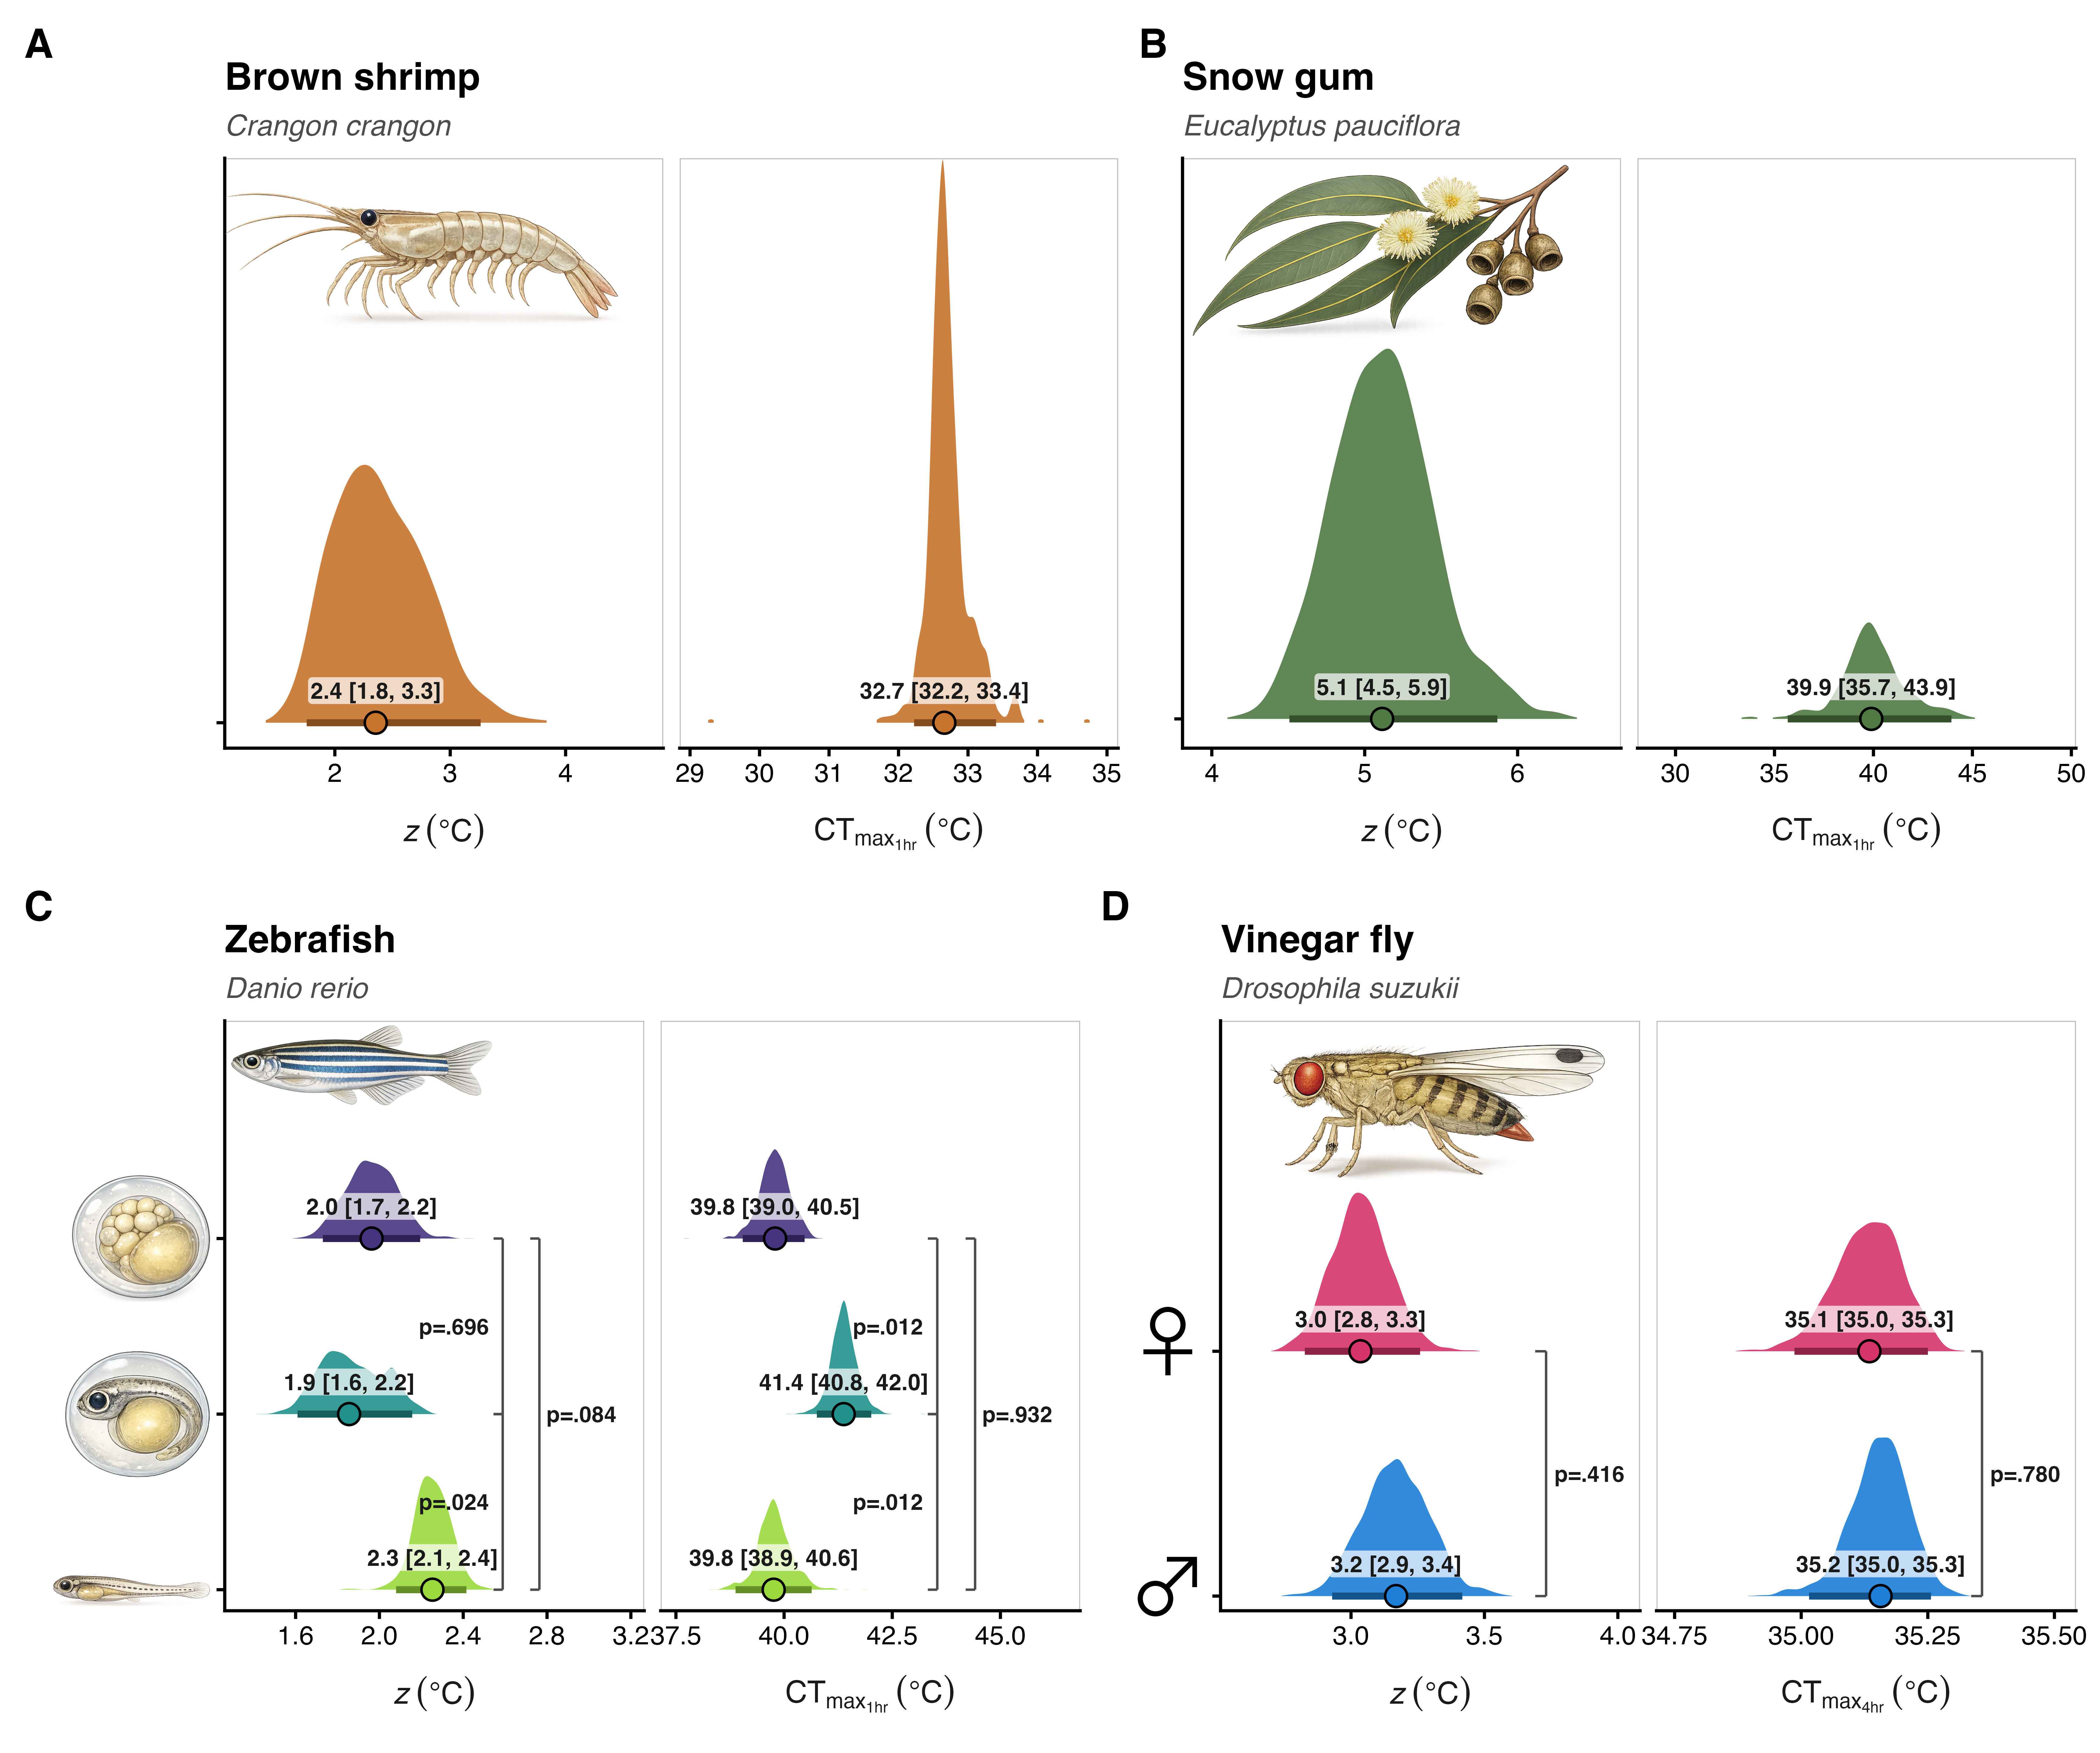
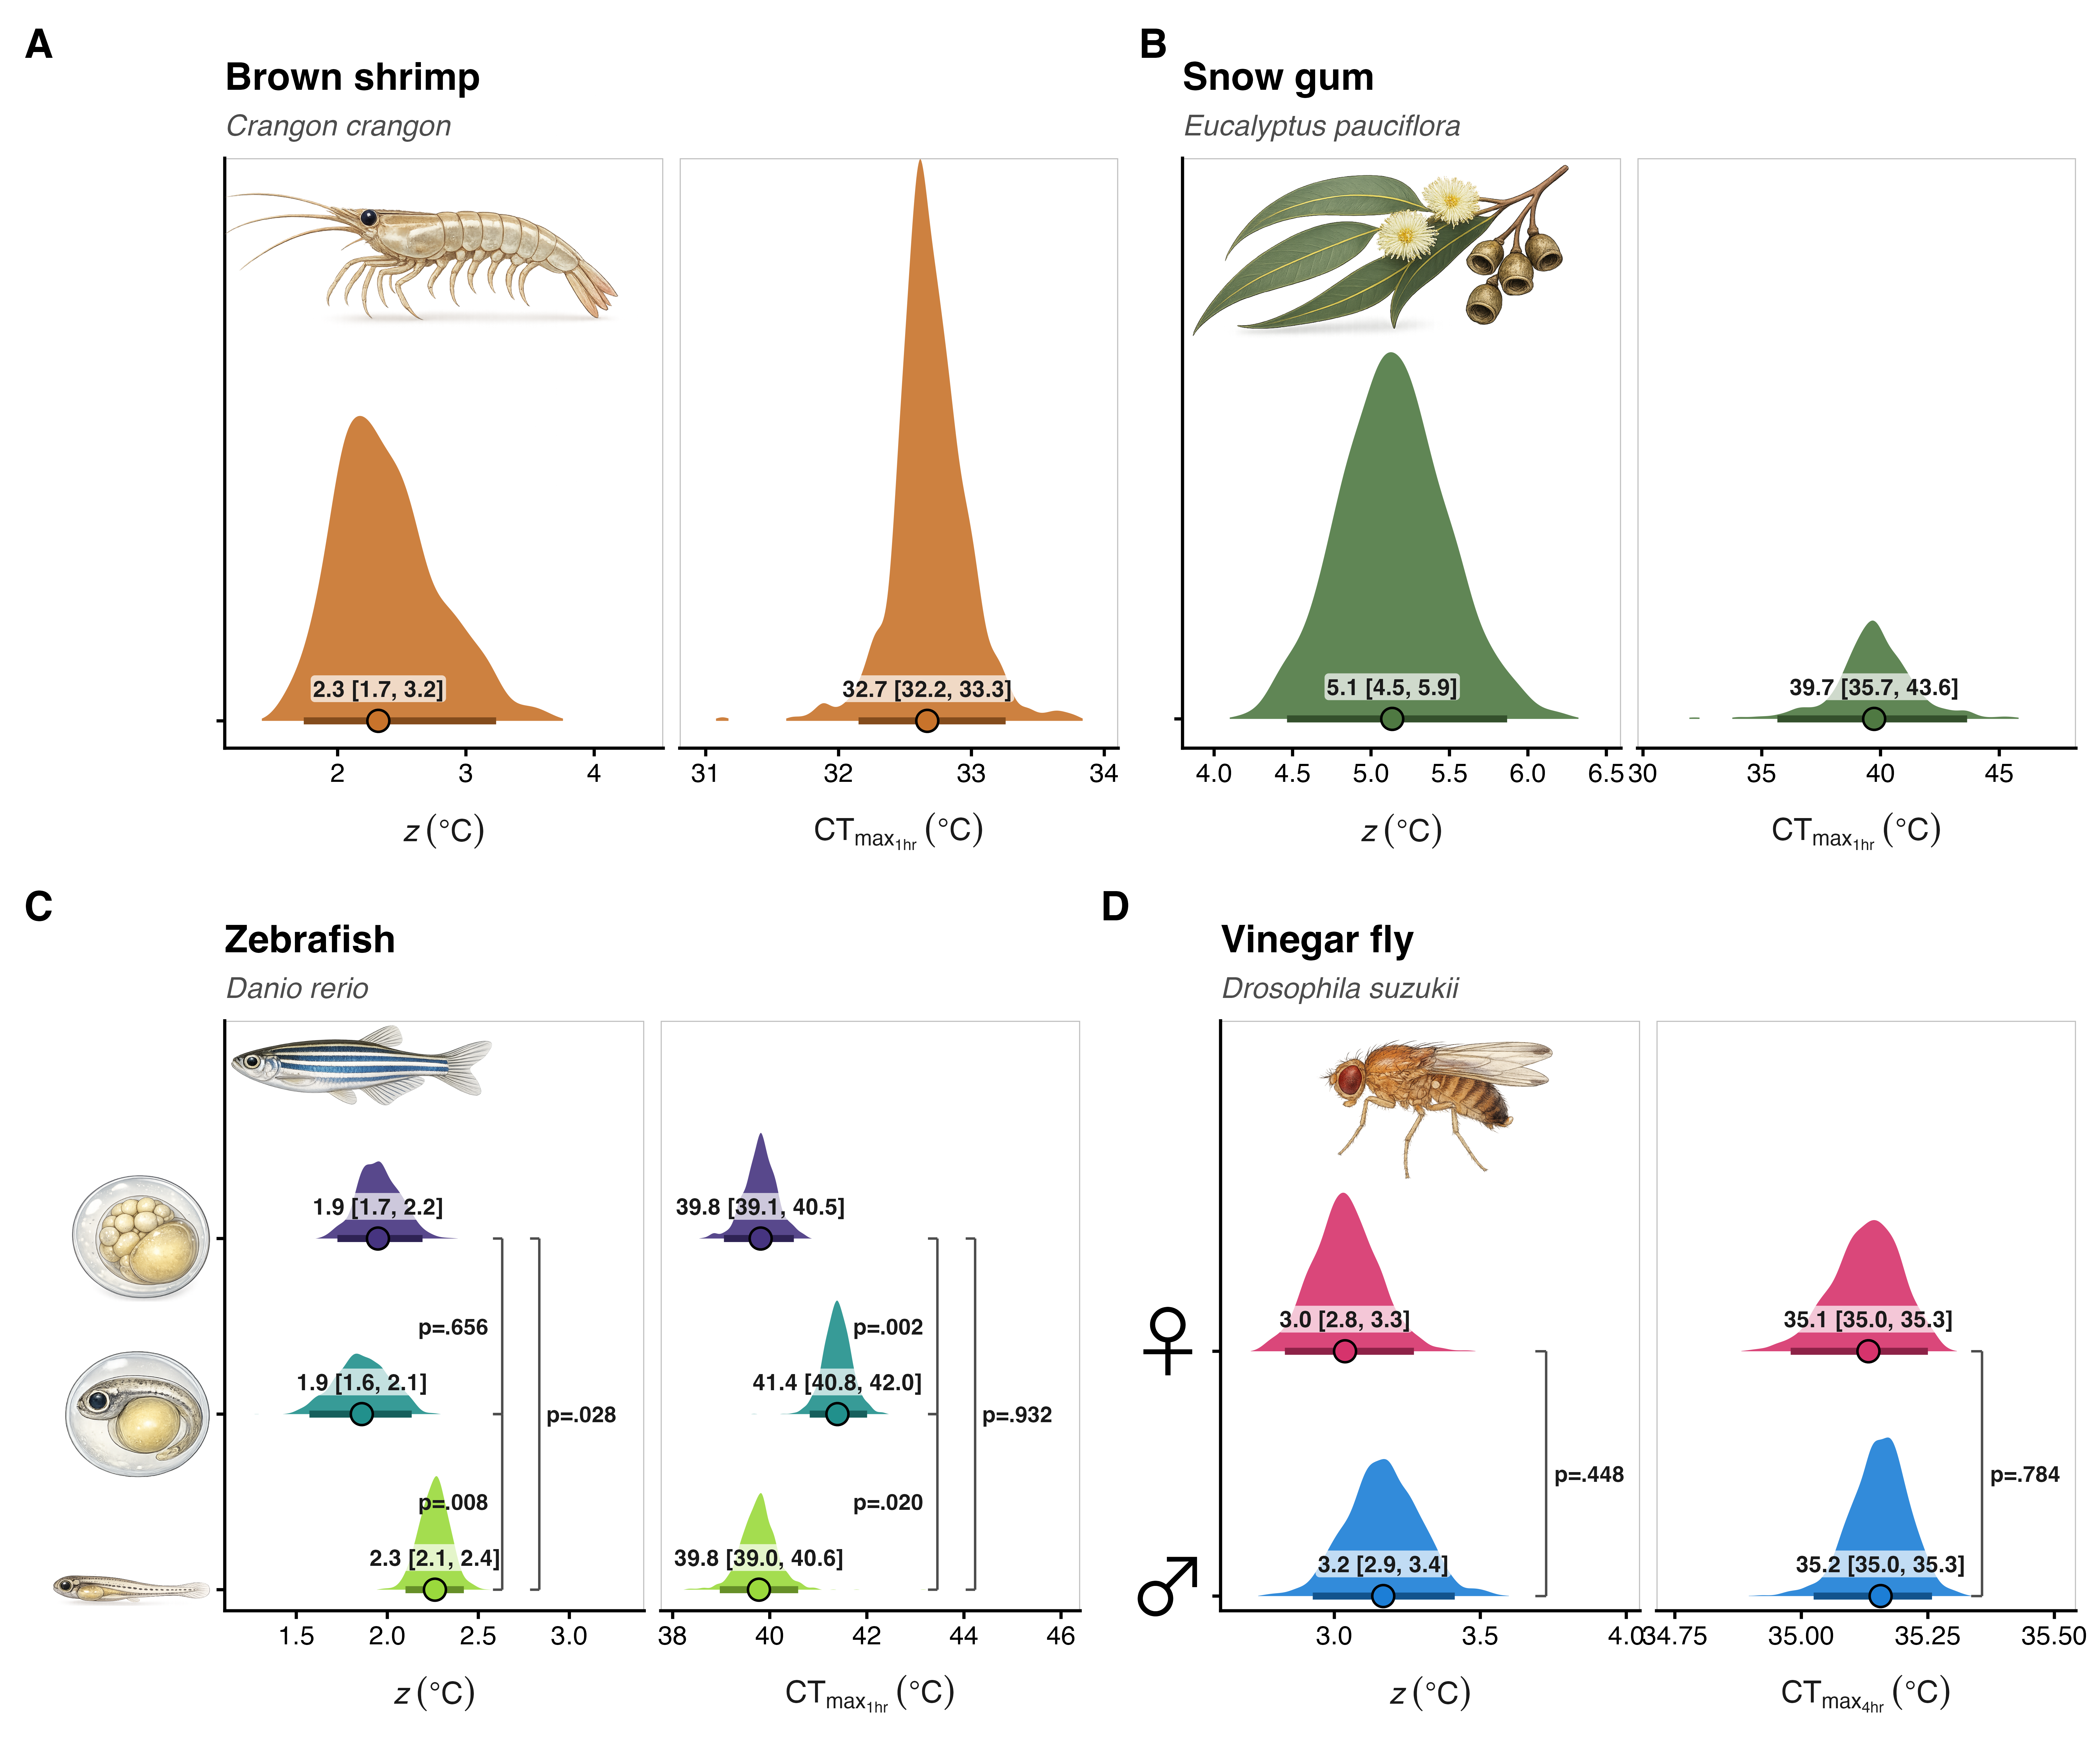
Fix some figs with better pics and update make file. Added new code to supplement for fig 5

diff --git a/README.md b/README.md
@@ -3,7 +3,7 @@
 <!-- badges: start -->
 [![R-CMD-check](https://github.com/daniel1noble/bayesTLS/actions/workflows/R-CMD-check.yaml/badge.svg)](https://github.com/daniel1noble/bayesTLS/actions/workflows/R-CMD-check.yaml)
 [![test-coverage](https://github.com/daniel1noble/bayesTLS/actions/workflows/test-coverage.yaml/badge.svg)](https://github.com/daniel1noble/bayesTLS/actions/workflows/test-coverage.yaml)
-[![Codecov test coverage](https://codecov.io/gh/daniel1noble/bayesTLS/graph/badge.svg)](https://app.codecov.io/gh/daniel1noble/bayesTLS)
+[![Codecov test coverage](https://codecov.io/gh/daniel1noble/bayesTLS/graph/badge.svg?token=m2j2yA8jbt)](https://app.codecov.io/gh/daniel1noble/bayesTLS)
 [![Lifecycle: stable](https://img.shields.io/badge/lifecycle-stable-brightgreen.svg)](https://lifecycle.r-lib.org/articles/stages.html#stable)
 [![License: CC BY 4.0](https://img.shields.io/badge/License-CC%20BY%204.0-lightgrey.svg)](https://creativecommons.org/licenses/by/4.0/)
 [![Ask Me Anything](https://img.shields.io/badge/Ask%20me-anything-1abc9c.svg)](https://github.com/daniel1noble/bayesTLS/issues)